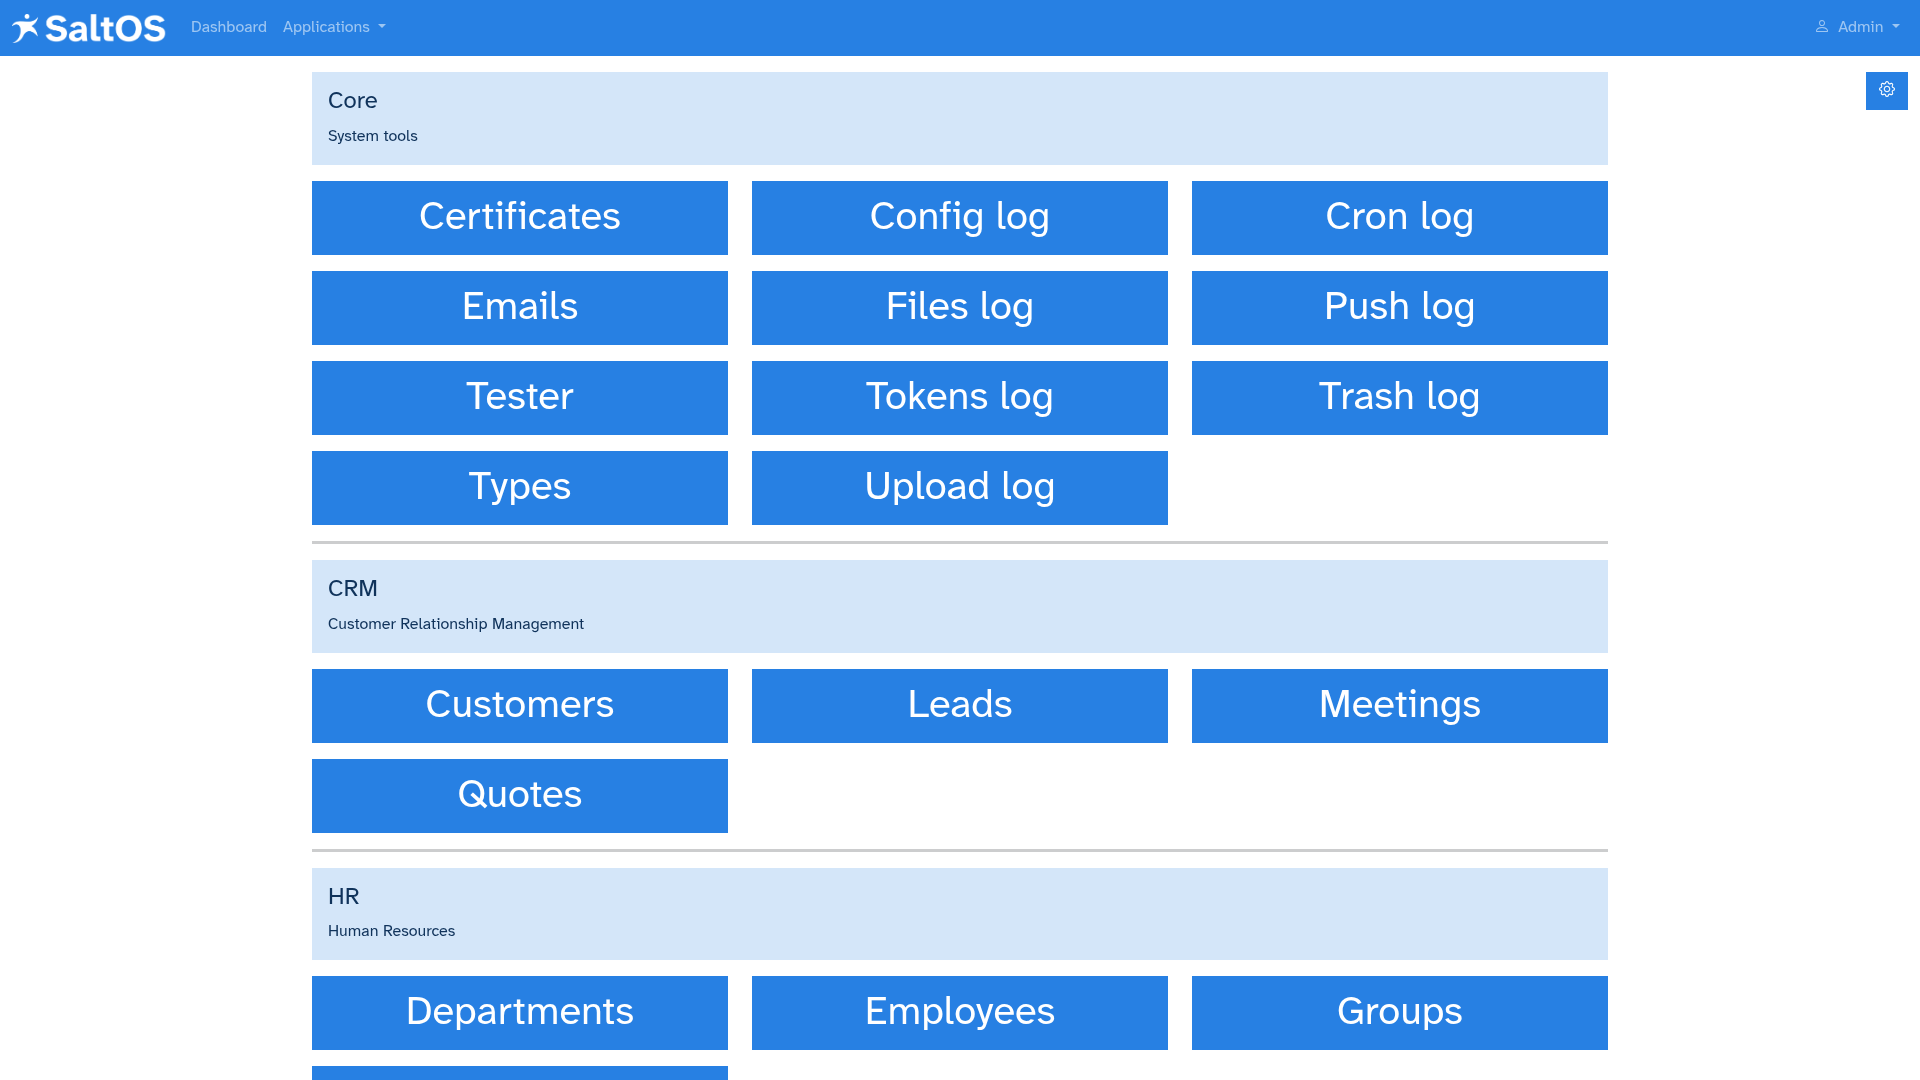
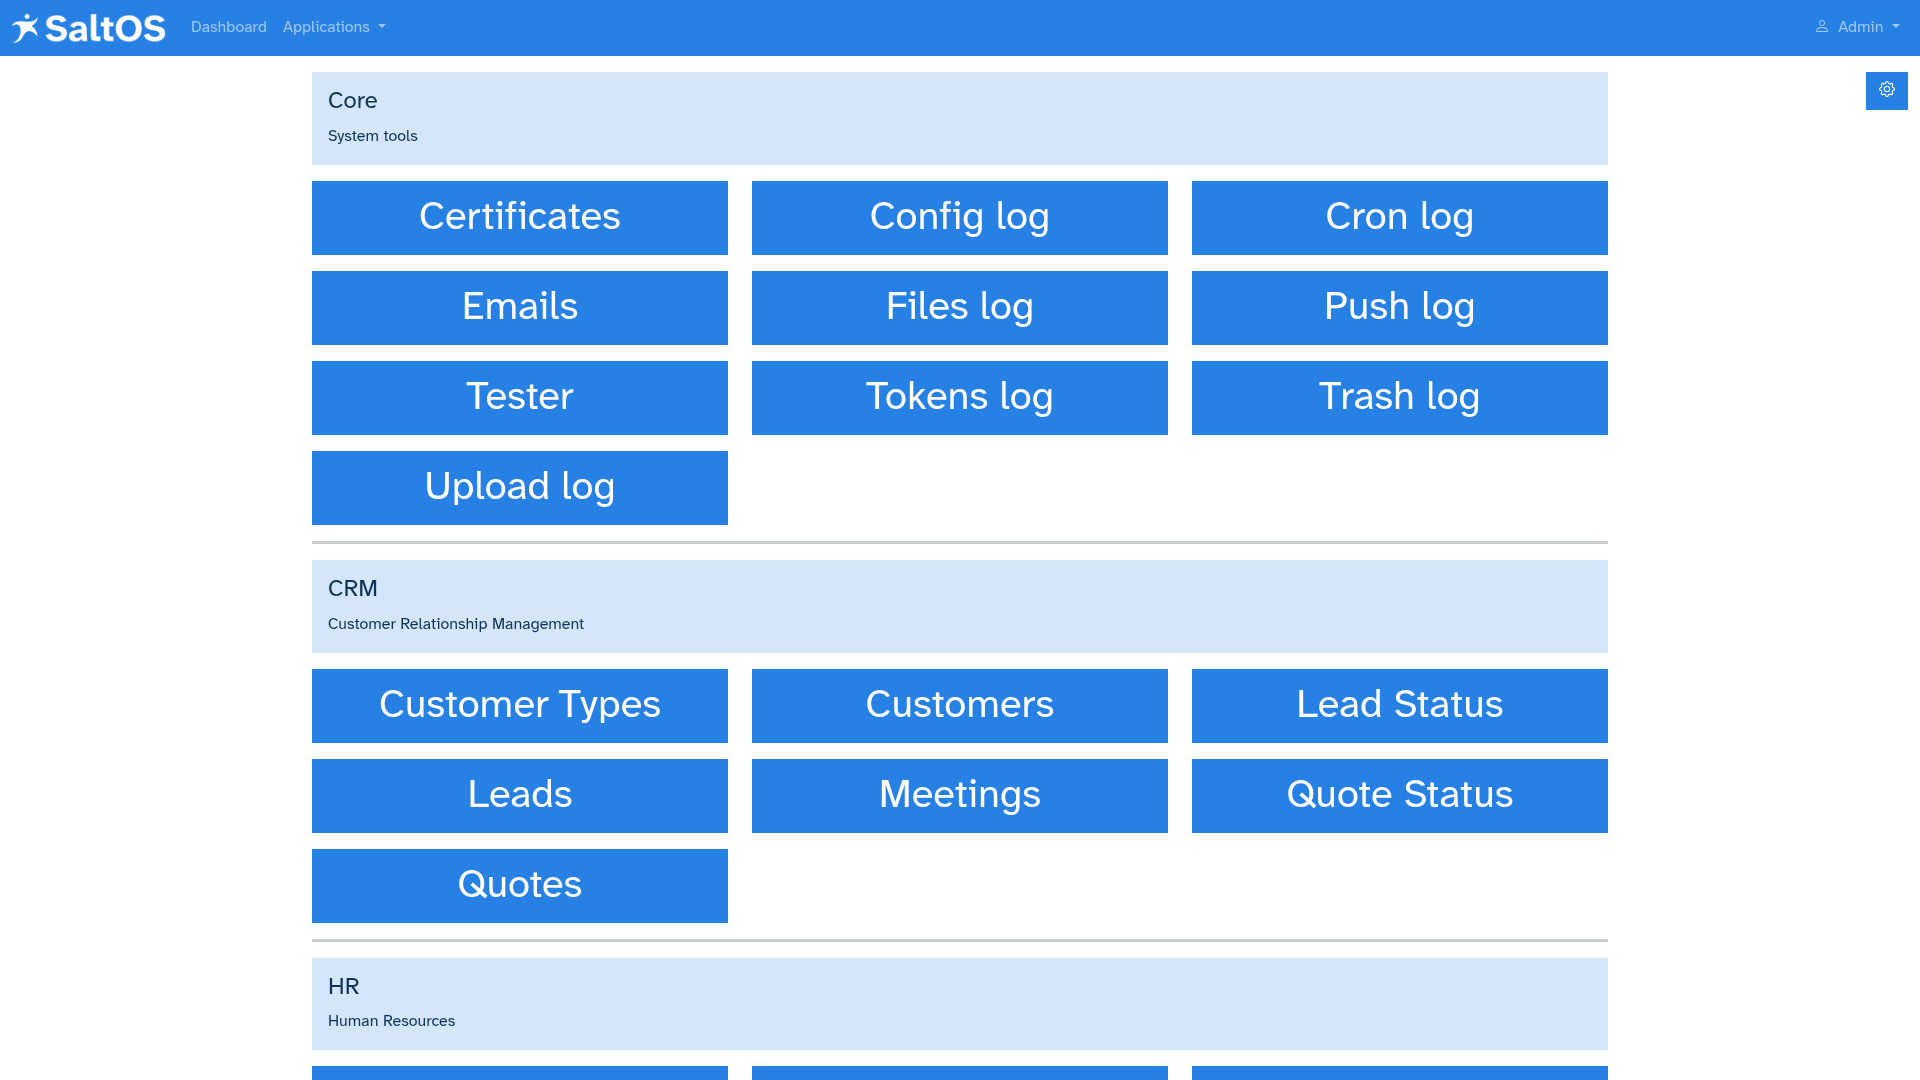
Fix some issues caused when remove the types app

diff --git a/utest/test_apps.php b/utest/test_apps.php
@@ -201,13 +201,13 @@ final class test_apps extends TestCase
             rmdir('apps/nada2');
         }
 
-        $file = detect_app_file('types');
+        $file = detect_app_file('customers_types');
         file_put_contents($file, '<root></root>');
 
         $file2 = 'data/logs/phperror.log';
         $this->assertFileDoesNotExist($file2);
 
-        $json = test_web_helper('app/types', '', $json2['token'], '');
+        $json = test_web_helper('app/customers_types', '', $json2['token'], '');
         $this->assertArrayHasKey('error', $json);
         $this->assertSame($json['error']['text'], 'Internal error');
 
@@ -217,7 +217,7 @@ final class test_apps extends TestCase
 
         file_put_contents($file, '<root><nada3></nada3><nada4></nada4></root>');
 
-        $json = test_web_helper('app/types', '', $json2['token'], '');
+        $json = test_web_helper('app/customers_types', '', $json2['token'], '');
         $this->assertArrayHasKey('error', $json);
         $this->assertSame($json['error']['text'], 'Action not found');
 
